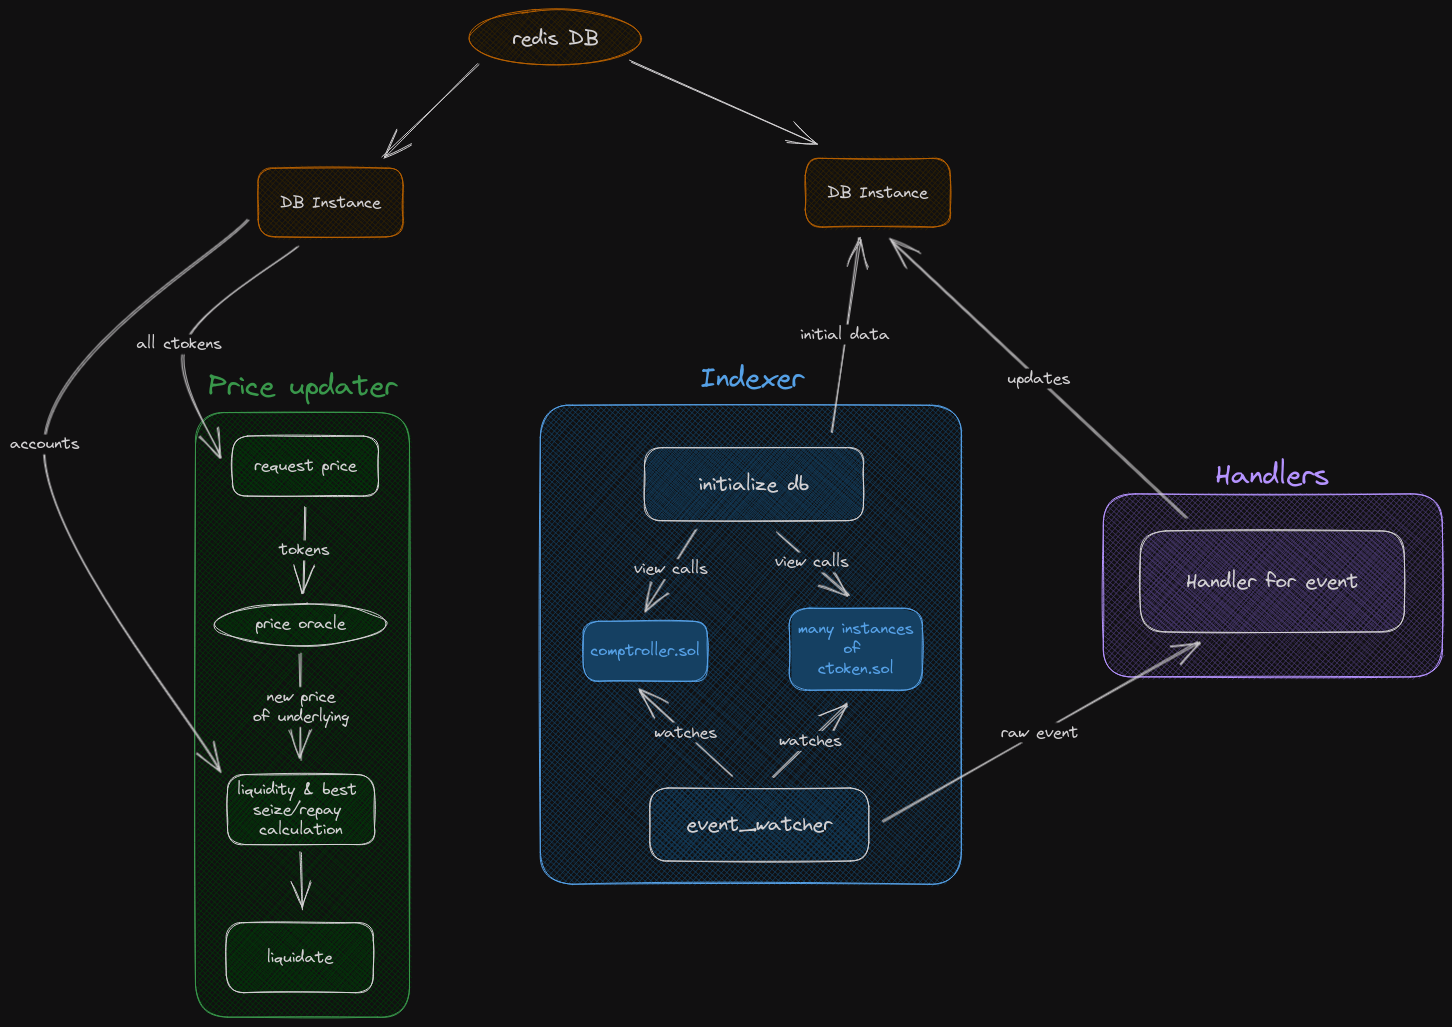
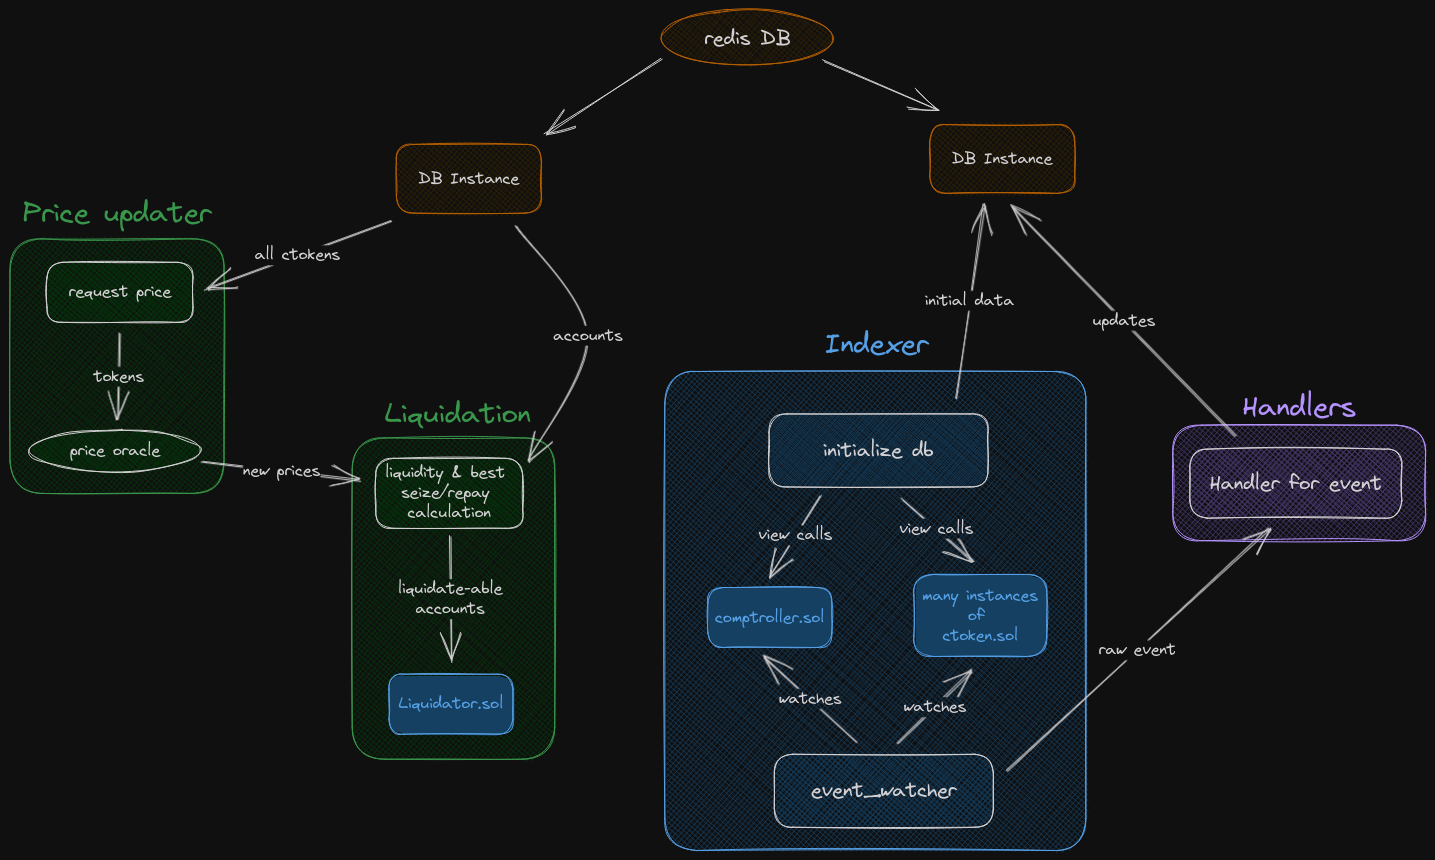
main setup

diff --git a/src/main.rs b/src/main.rs
@@ -1,28 +1,16 @@
 mod bindings;
 mod handlers;
 mod indexer;
+mod price_updater;
 mod types;
 
-use crate::bindings::{
-    c_erc20_bindings::CErc20,
-    comptroller_bindings::{Comptroller, ComptrollerEvents},
-    erc20_bindings::Erc20,
-    liquidator_bindings::Liquidator,
-};
 use crate::indexer::Indexer;
-use crate::types::{account::Account, command::Command, ctoken::CToken};
+use crate::price_updater::PriceUpdater;
 
-use ethers::{
-    contract::abigen,
-    core::types::Address,
-    providers::{Provider, Ws},
-};
+use ethers::providers::{Provider, Ws};
 extern crate redis; // TODO: why is this "extern crate" and not "use"?
-use std::{collections::HashMap, sync::Arc, thread};
-use tokio::{
-    runtime,
-    sync::mpsc::{channel, Receiver, Sender},
-};
+use std::{sync::Arc, thread};
+use tokio::runtime;
 
 const WSS_URL: &str = "wss://mainnet.infura.io/ws/v3/4824addf02ec4a6c8618043ea418e6df";
 const COMPTROLLER_ETH_MAINNET: &str = "0x3d9819210A31b4961b30EF54bE2aeD79B9c9Cd3B";
@@ -35,15 +23,9 @@ async fn main() -> eyre::Result<()> {
     let client_for_indexer = Arc::new(provider);
     let client_for_price_updater = client_for_indexer.clone();
 
-    // initialize contracts
-    // TODO: should I init contracts within each module instead?
-    // let comptroller_address: Address = COMPTROLLER_ETH_MAINNET.parse()?;
-    // let comptroller = Comptroller::new(comptroller_address, client_for_comptroller);
-
-    // let liquidator_address: Address = TEMP_LIQUIDATOR_ETH_MAINNET.parse()?;
-    // let liquidator = Liquidator::new(liquidator_address, client_for_liquidator);
-
     // initialize modules
+    let indexer = Indexer::new(client_for_indexer);
+    let price_updater = PriceUpdater::new(client_for_price_updater);
 
     // for threads
     let runtime = Arc::new(

diff --git a/src/indexer.rs b/src/indexer.rs
@@ -1,14 +1,24 @@
+use ethers::providers::{Provider, Ws};
 use redis;
+use std::sync::Arc;
 
 pub struct Indexer {
-    connection: redis::Connection,
+    db_connection: redis::Connection,
+    ethers_client: Arc<Provider<Ws>>,
 }
 
 impl Indexer {
-    pub fn new() -> Indexer {
-        let client = redis::Client::open("redis://127.0.0.1/")?; // Replace with your Redis connection details
-        let connection = client.get_connection()?;
+    pub fn new(ethers_client: Arc<Provider<Ws>>) -> Indexer {
+        let client = redis::Client::open("redis://127.0.0.1/").unwrap(); // Replace with your Redis db_connection details
+        let db_connection = client.get_connection().unwrap();
 
-        Indexer { connection }
+        Indexer {
+            db_connection,
+            ethers_client,
+        }
+    }
+
+    pub async fn run(&self) {
+        println!("Indexer::run()");
     }
 }

diff --git a/src/price_updater.rs b/src/price_updater.rs
@@ -1,0 +1,24 @@
+use ethers::providers::{Provider, Ws};
+use redis;
+use std::sync::Arc;
+
+pub struct PriceUpdater {
+    redis_connection: redis::Connection,
+    ethers_client: Arc<Provider<Ws>>,
+}
+
+impl PriceUpdater {
+    pub fn new(ethers_client: Arc<Provider<Ws>>) -> PriceUpdater {
+        let client = redis::Client::open("redis://127.0.0.1/").unwrap(); // Replace with your Redis connection details
+        let redis_connection = client.get_connection().unwrap();
+
+        PriceUpdater {
+            redis_connection,
+            ethers_client,
+        }
+    }
+
+    pub async fn run(&self) {
+        println!("PriceUpdater::run()");
+    }
+}

diff --git a/src/handlers.rs b/src/handlers.rs
@@ -41,3 +41,7 @@ mod new_liquidation_incentive_handler;
 mod borrow_handler;
 mod repay_borrow_handler;
 mod transfer_handler;
+
+pub async fn run() {
+    println!("handlers::run()");
+}
